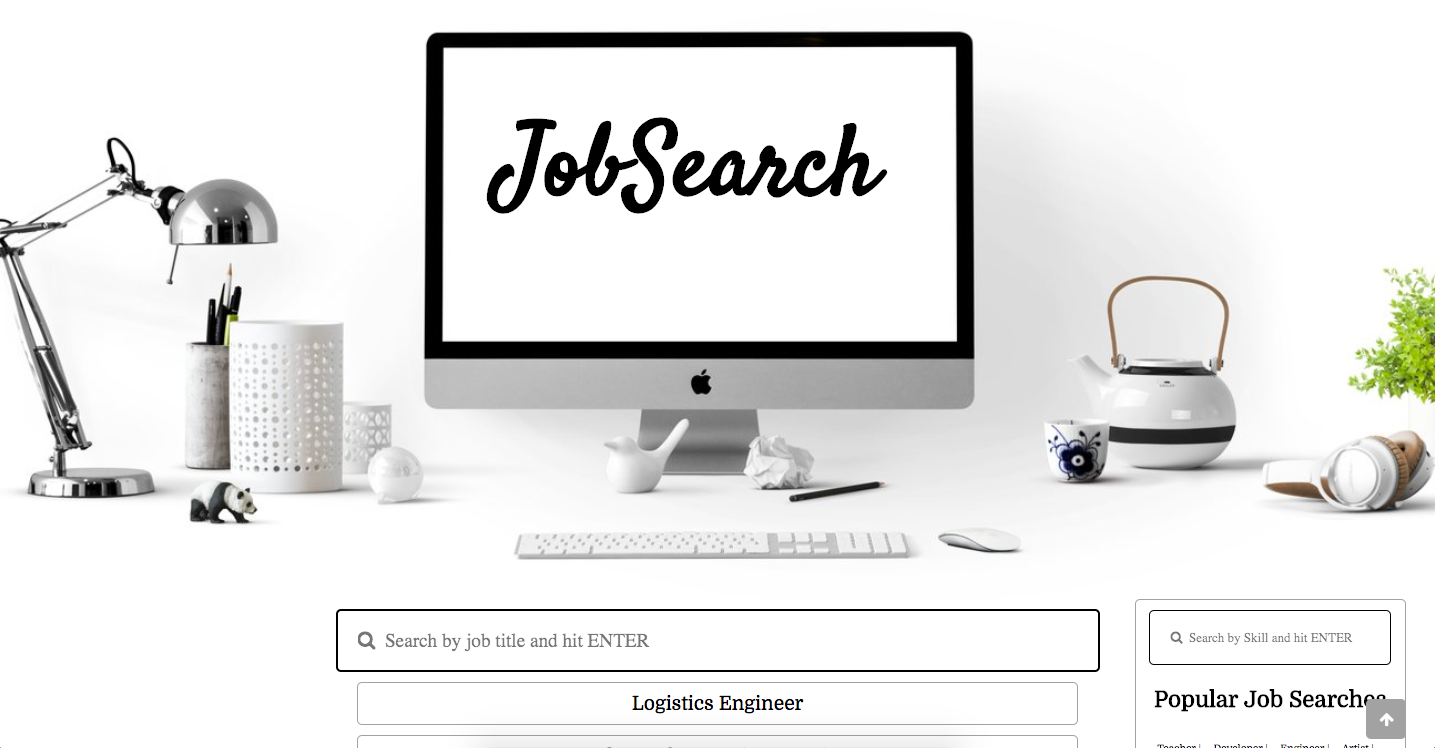
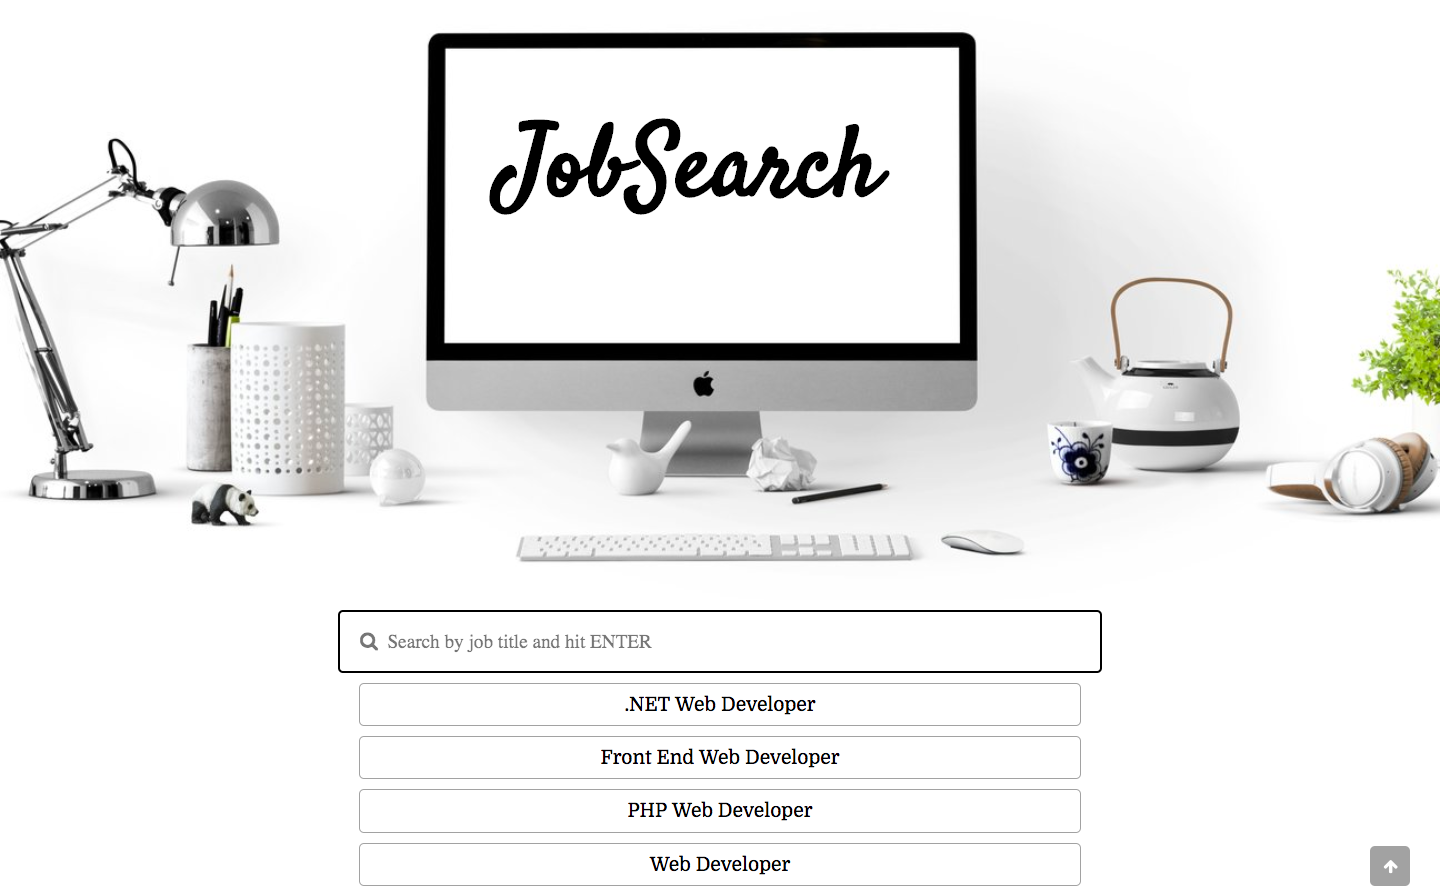
updated screenshots

diff --git a/README.md b/README.md
@@ -1,6 +1,6 @@
 # JobSearch
 
-A job search/skill search application created with React and Redux.
+A job search application created with React and Redux that uses the dataatwork api. The application allowes users to search for a job by title and get all related skills for that job.
 
 ### Getting Started
 
